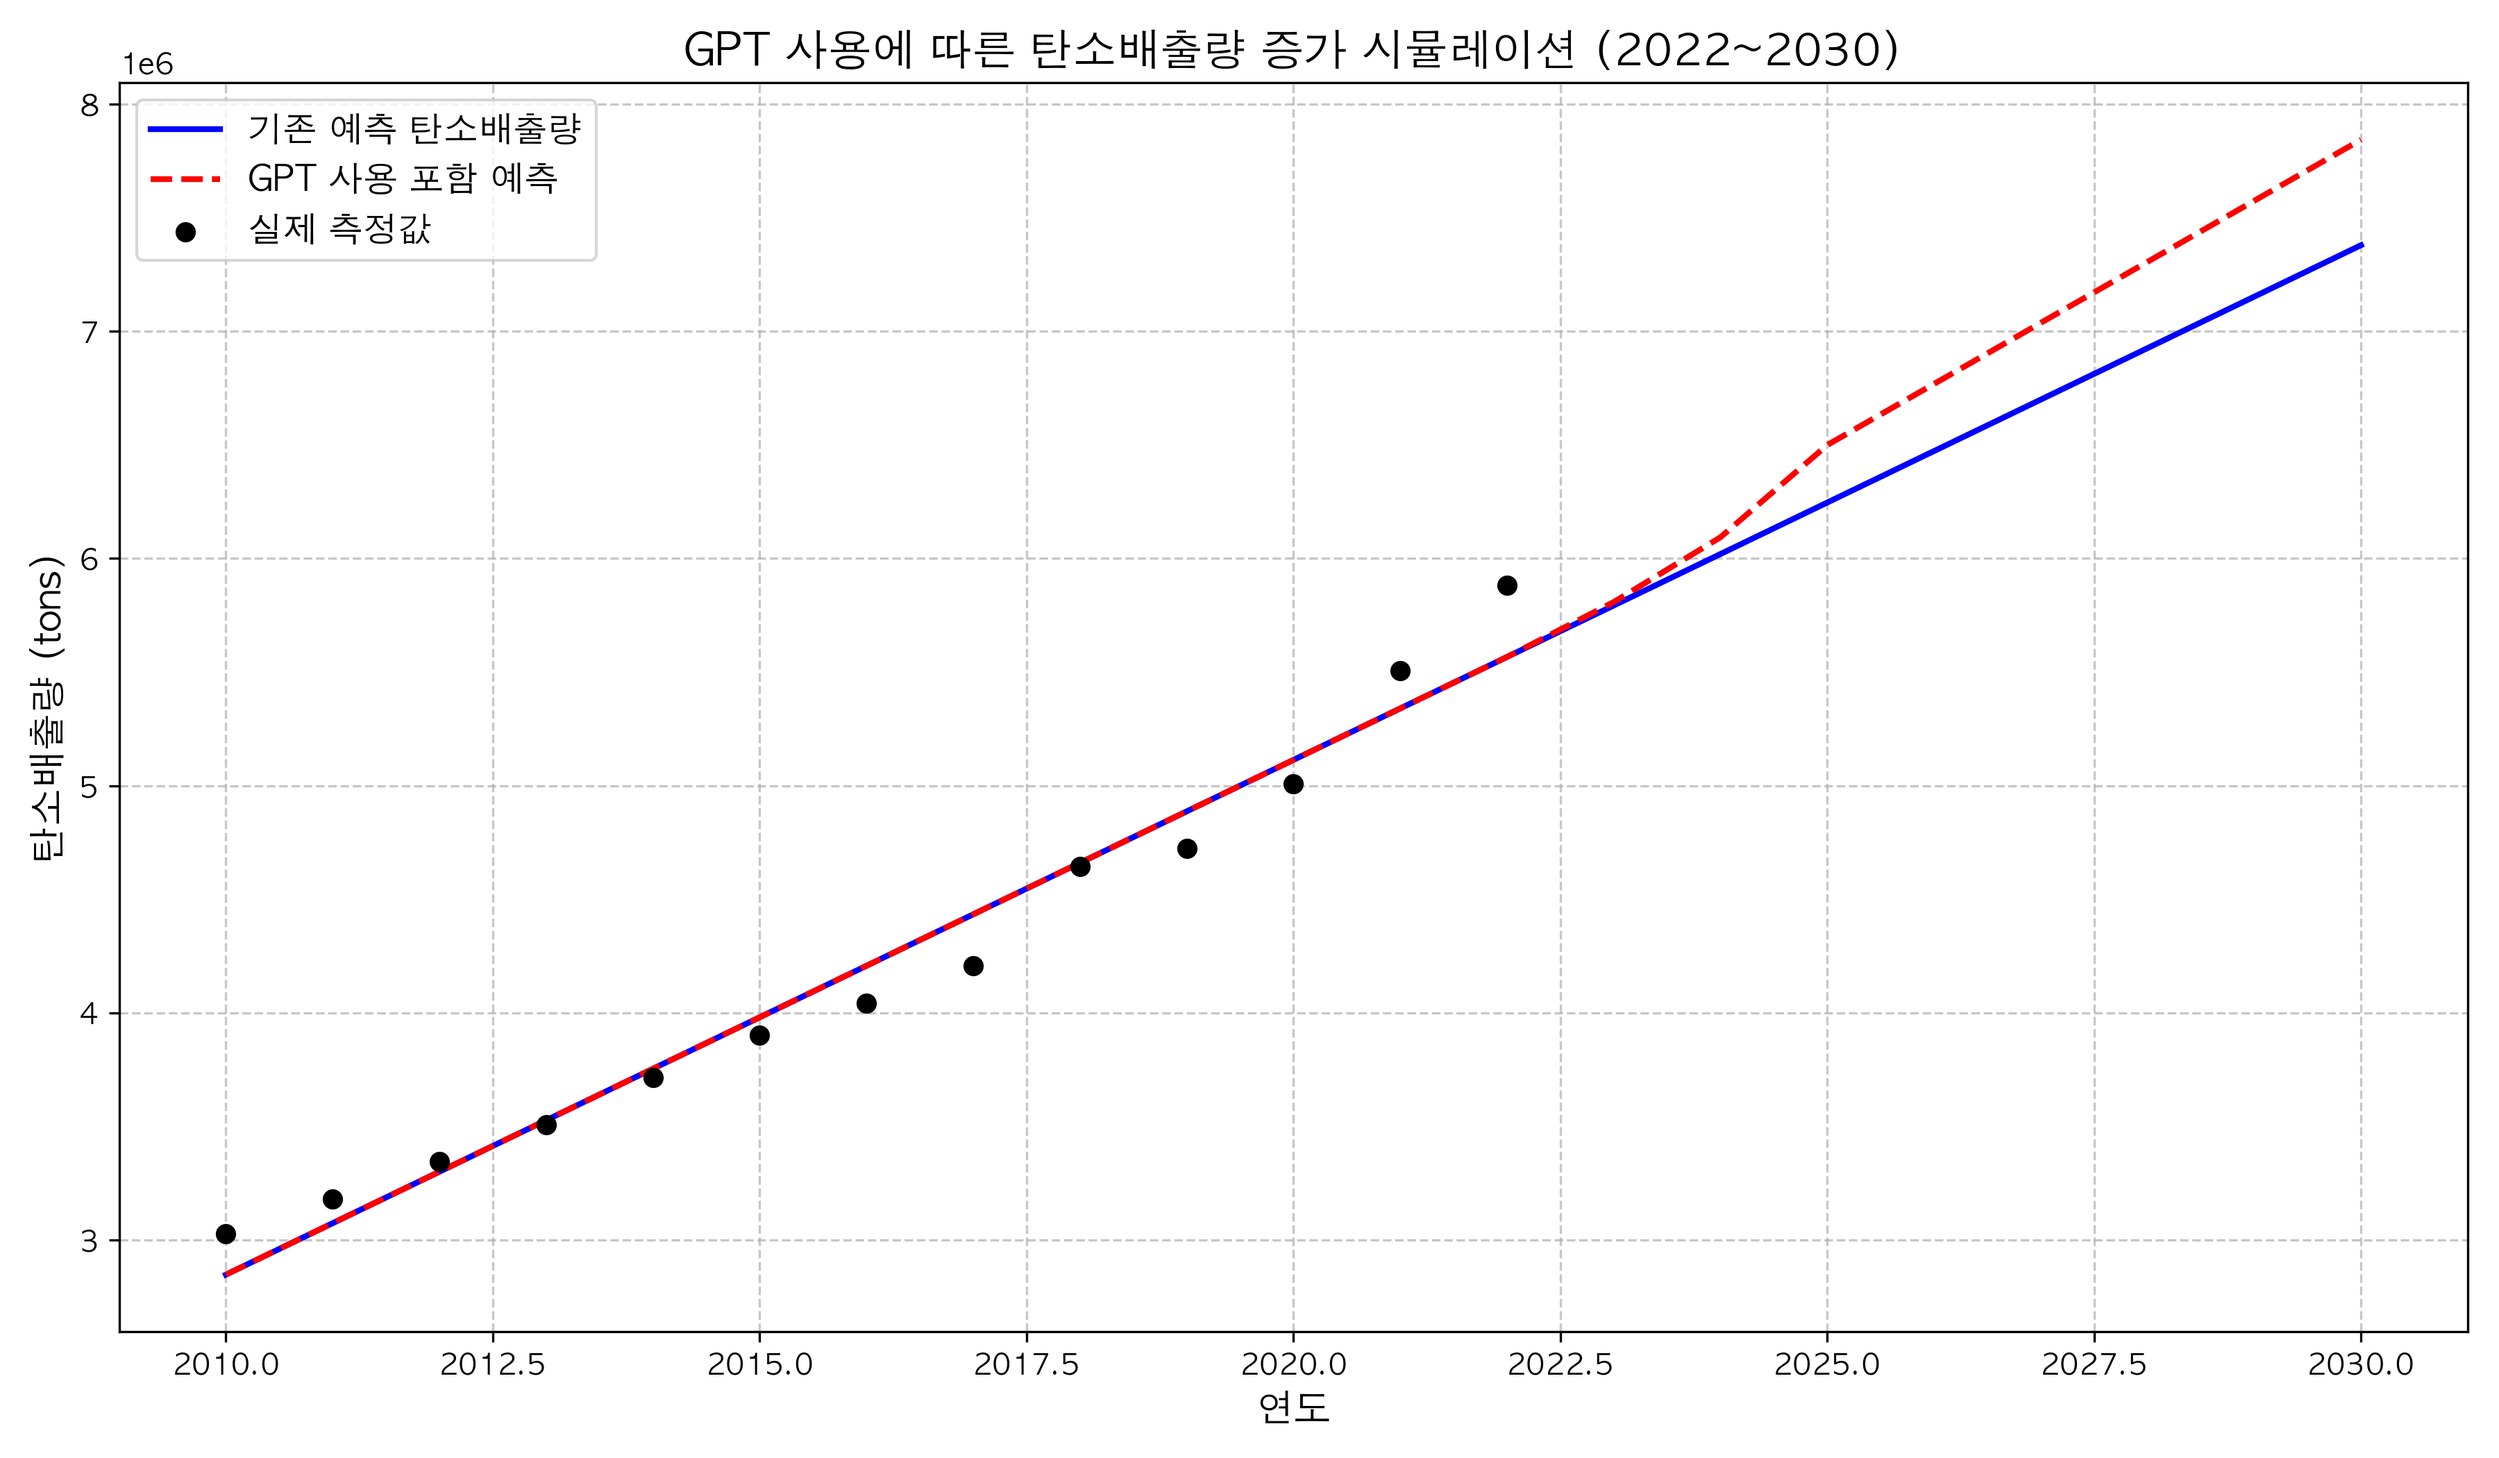
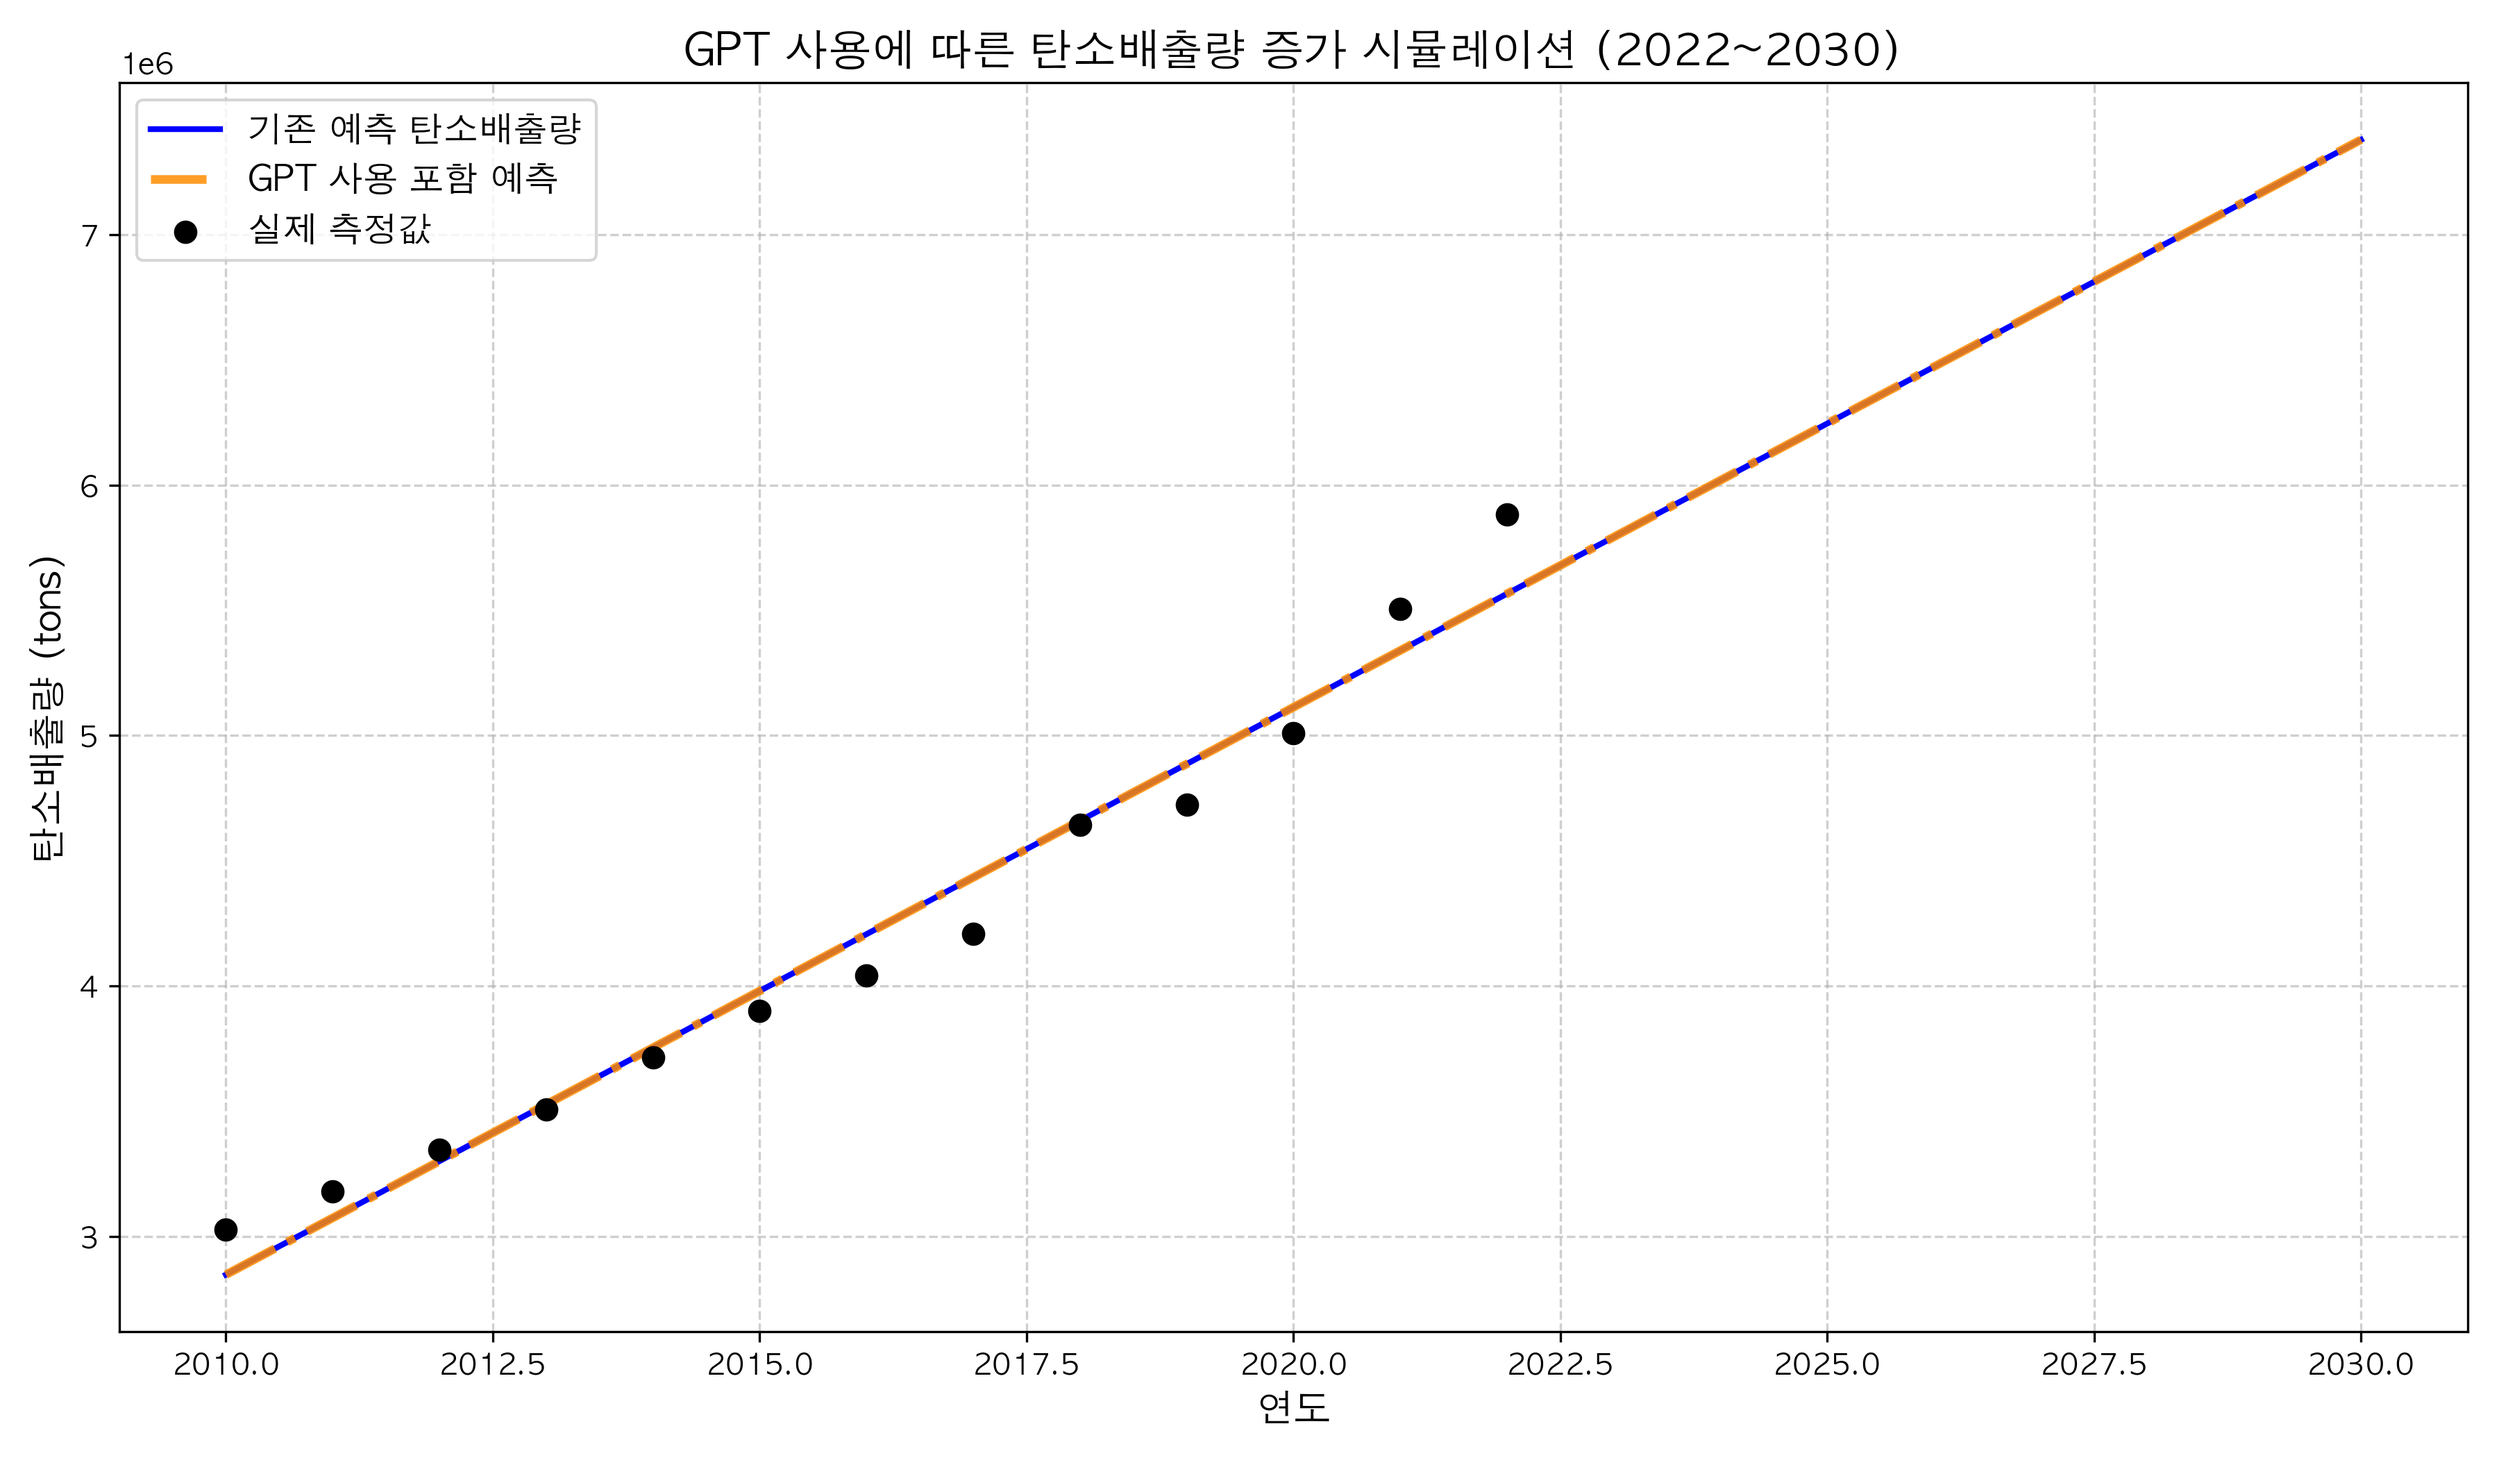
[fix] step4

diff --git a/Step4/gpt_usage_carbon_emission_regression.py b/Step4/gpt_usage_carbon_emission_regression.py
@@ -32,7 +32,7 @@ gpt_users_by_year = {
 # 3. 샘플 사용자 1인의 연간 평균 탄소배출량 계산 (일간 값 × 365)
 # ----------------------------------
 daily_mean_emission_per_user = gpt_data['total_carbon_emission'].mean()
-annual_mean_emission_per_user = daily_mean_emission_per_user * 365
+annual_mean_emission_per_user = (daily_mean_emission_per_user / 1000) * 365
 print(f"샘플 사용자 연간 평균 탄소배출량: {annual_mean_emission_per_user:.10f} tons")
 
 # 연도별 GPT 총 배출량 계산
@@ -68,17 +68,15 @@ for i, year in enumerate(all_years_flat):
 # ----------------------------------
 plt.figure(figsize=(12, 7))
 plt.plot(all_years, predicted_emission, label='기존 예측 탄소배출량', color='blue', linewidth=2)
-plt.plot(all_years, adjusted_emission, label='GPT 사용 포함 예측', color='red', linestyle='--', linewidth=2)
-plt.scatter(carbon_data['Year'], carbon_data['total_carbon_emission'], color='black', label='실제 측정값', zorder=5)
+plt.plot(all_years, adjusted_emission, label='GPT 사용 포함 예측', color='darkorange', linestyle='-.', linewidth=3, alpha=0.85)
+plt.scatter(carbon_data['Year'], carbon_data['total_carbon_emission'], color='black', label='실제 측정값', zorder=5, s=50)
 
 plt.xlabel('연도', fontsize=13)
 plt.ylabel('탄소배출량 (tons)', fontsize=13)
 plt.title('GPT 사용에 따른 탄소배출량 증가 시뮬레이션 (2022~2030)', fontsize=15)
 plt.legend(fontsize=12)
-plt.grid(True, linestyle='--', alpha=0.7)
+plt.grid(True, linestyle='--', alpha=0.6)
 plt.tight_layout()
-
-# PNG 파일 저장
 plt.savefig("Step4/carbon_emission_simulation_2022_2030.png", dpi=300)
 
 # ----------------------------------
